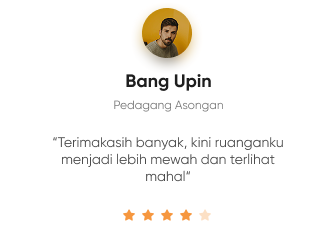
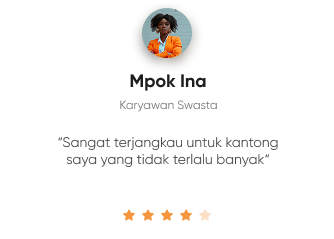
adding phone responsiveness

diff --git a/style.css b/style.css
@@ -238,6 +238,7 @@ a {
     display: flex;
     justify-content: center;
     align-items: center;
+    gap: 4rem;
 
 }
 .review_card_1 {
@@ -245,9 +246,209 @@ a {
     background-repeat: no-repeat;
     /* width: 100%; */
     height: 120vh;
+    img {
+        position: relative;
+        top: 210px;
+    }
 
    
 }
 .review_card_2 {
-    background: ;
+    background: url("images/unsplash_JaXs8Tk5Iww.png");
+    /* width: 100%; */
+    height: 120vh;
+    background-repeat: no-repeat;
+
+    img {
+        position: relative;
+        top: 210px;
+    }
+}
+.review_card_3 {
+    background: url("images/unsplash_h2_3dL9yLpU.png");
+     height: 120vh;
+    background-repeat: no-repeat;
+
+    img {
+        position: relative;
+        top: 210px;
+    }
+}
+.footer_container {
+    display: flex;
+    flex-direction: row;
+    /* justify-content: center; */
+    align-content: flex-start;
+    gap: 5rem;
+    
+}
+.footer_services {
+    
+    li {
+        display: flex;
+        text-decoration: none;
+        margin: 1rem;
+
+        span {
+            color: #E58411;
+        }
+    }
+    
+    
+    
+}
+.footer_furnitures li{
+    display: flex;
+    text-decoration: none;
+    margin: 1rem;
+
+    span {
+        color: #E58411;
+    }
+    
+}
+.footer_socials li {
+    display: flex;
+    align-items: center;
+    text-decoration: none;
+    gap: 1rem;
+    margin: 0.7rem;
+
+    span {
+        color: #E58411;
+    }
+}
+.copyright_container {
+    display: flex;
+    margin-top: 1rem;
+    justify-content: space-between;  
+/* .copyright {
+    display: flex;
+    justify-content: flex-start;
+}   */
+}
+.terms {
+    display: flex;
+    flex-direction: row;
+    gap: 3rem;
+    margin-right: 8rem;
+    /* justify-content: space-around; */
+}
+
+/* =========================
+   PHONE RESPONSIVENESS
+========================= */
+
+@media screen and (max-width: 480px) {
+
+    /* HOME SECTION */
+    .home {
+        width: 100%;
+        padding: 15px;
+    }
+
+    .landing-logo img {
+        max-width: 120px;
+        height: auto;
+    }
+
+    .nav {
+        flex-direction: column;
+        gap: 15px;
+    }
+
+    .landing-text {
+        flex-direction: column;
+        text-align: center;
+        padding: 20px 0;
+    }
+
+    .landing-text h1 {
+        font-size: 28px;
+    }
+
+    .landing-text p {
+        font-size: 14px;
+    }
+
+    /* SERVICES SECTION */
+    .service-container {
+        flex-direction: column;
+        padding: 20px;
+        gap: 20px;
+    }
+
+    .service-heading {
+        text-align: center;
+    }
+
+    /* PRODUCTS SECTION */
+    .product-container {
+        flex-direction: column;
+        padding: 15px;
+    }
+
+    .product-list {
+        flex-direction: column;
+        gap: 20px;
+    }
+
+    .card-container {
+        flex-direction: column;
+    }
+
+    .product-card {
+        width: 100%;
+    }
+
+    .product-card img {
+        max-width: 100%;
+        height: auto;
+    }
+
+    /* EXPERIENCE SECTION */
+    .experience-container {
+        flex-direction: column;
+        padding: 20px;
+    }
+
+    .experience-details {
+        width: 100%;
+    }
+
+    /* MATERIALS SECTION */
+    .materials-container {
+        flex-direction: column;
+        padding: 20px;
+    }
+
+    .material-details {
+        width: 100%;
+    }
+
+    /* REVIEWS SECTION */
+    .reviews {
+        flex-direction: column;
+        padding: 20px;
+        gap: 20px;
+    }
+
+    .review-card {
+        width: 100%;
+    }
+
+    /* FOOTER */
+    footer {
+        flex-direction: column;
+        padding: 20px;
+        gap: 20px;
+        text-align: center;
+    }
+
+    /* GENERAL IMAGE RESPONSIVENESS */
+    img {
+        max-width: 100%;
+        height: auto;
+    }
+
 }

diff --git a/index.html b/index.html
@@ -243,10 +243,72 @@
 
                 </div>
 
+                <div class="review_card_3">
+                    <img src="images/Group 48095426.png" alt="image">
+
+                </div>
+
             </div>
 
         </div>
 
     </section>
+
+    <footer class="footer">
+        <div class="footer_container">
+            <div class="header_container">
+
+                <h2>Panto</h2>
+                <p>
+                    The advantage of hiring a workspace with <br>
+                    us is that it gives you comfortable service <br>
+                    and all-around facilities.
+                </p>
+            </div>
+
+            <div class="footer_services">
+                <ul>
+                    <li><span>services</span></li>
+                    <li>Email Marketing</li>
+                    <li>Campaigns</li>
+                    <li>Branding</li>
+                </ul>
+
+            </div>
+
+            <div class="footer_furnitures">
+                <ul>
+                    <li><span>Furniture</span></li>
+                    <li>Beds</li>
+                    <li>Chair</li>
+                    <li>All</li>
+                </ul>
+
+            </div>
+
+            <div class="footer_socials">
+                <ul>
+                    <li><span>Follow Us</span></li>
+                    <li><img src="images/icons8-facebook-30.png" alt="icon"> Facebook</li>
+                    <li><img src="images/icons8-twitter-bird-30.png" alt="icon"> Twitter</li>
+                    <li><img src="images/icons8-instagram-24.png" alt="icon"> Instagram</li>
+                </ul>
+
+
+            </div>
+
+        </div>
+        <div class="copyright_container">
+            <div class="copyright">
+                copyright &copy; 2021
+            </div>
+            
+            <div class="terms">
+                <p>Terms & Conditions</p>
+                <p>Privacy Policy</p>
+            </div>
+        </div>
+
+    </footer>
 </body>
 </html>
